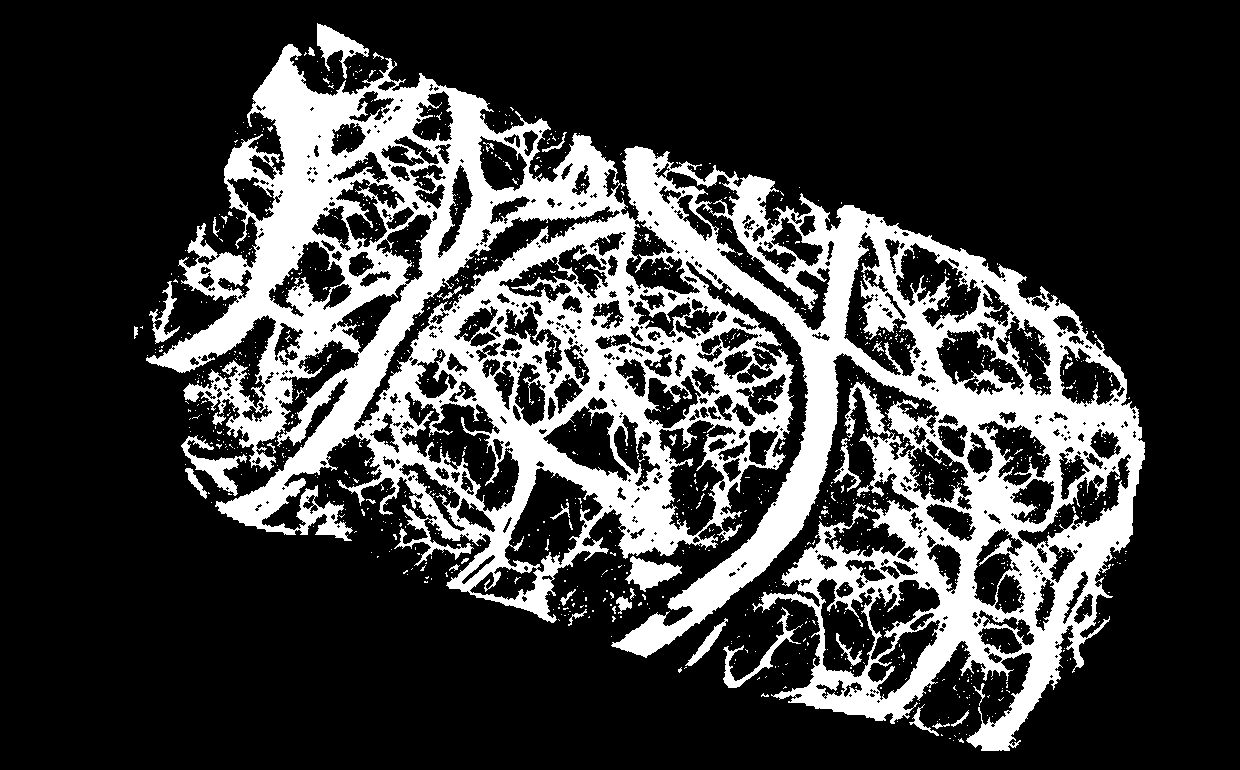
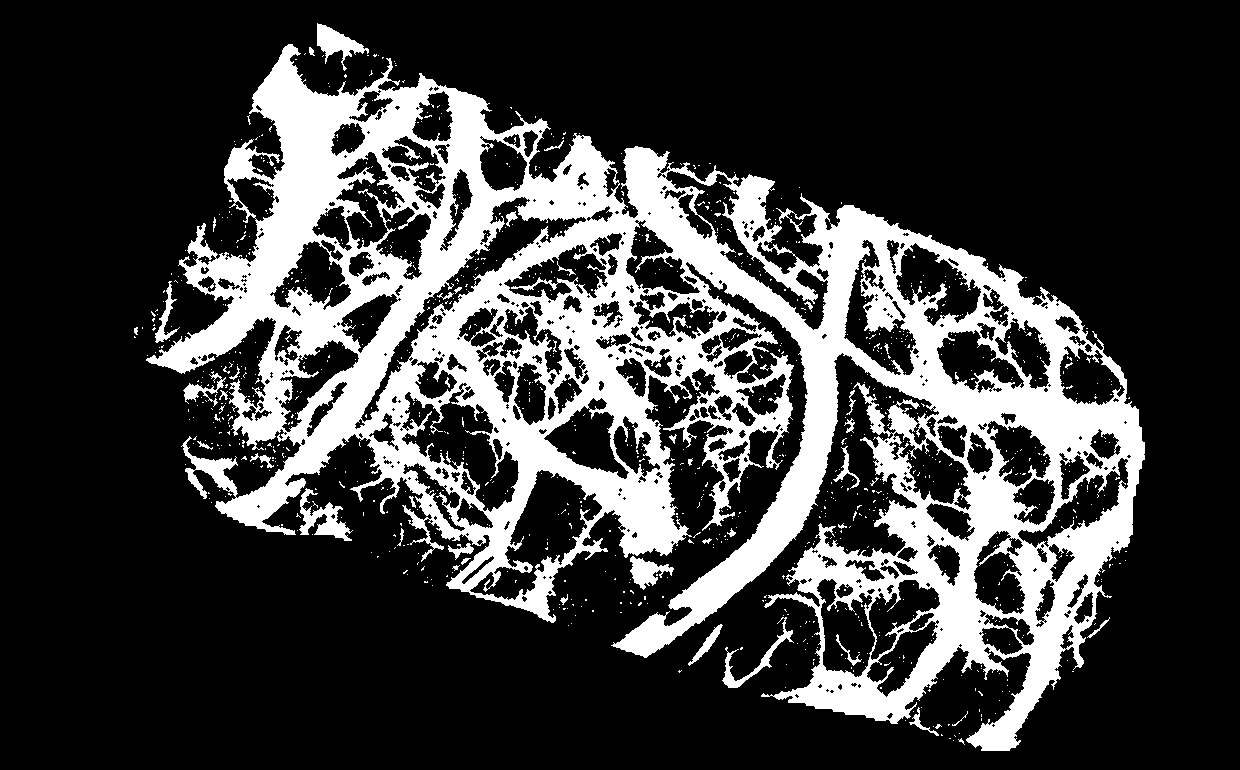
Increase number of photonts

diff --git a/Compute_Hypercubes.m b/Compute_Hypercubes.m
@@ -12,7 +12,7 @@ addpath('./functions/Optical_coefficients');
 
 
 % Path that contains results
-path = '../output_mcxlab/output_pp_WMC_1/'; 
+path = '../output_mcxlab/output_patient1/'; 
 
 % Load model info
 load(strcat(path,'cst.mat')) % Load constants
@@ -61,17 +61,3 @@ close all;
 for i = 1:length(Lambdas)
     figure(i); subplot(121), imagesc(Hypercube(:,:,i),[min_H max_H]), colorbar, title(strcat('Reconstructed diffuse reflectance ',num2str(Lambdas(i)),'nm')), subplot(122),   imagesc(Mean_path_length(:,:,i),[min_mp max_mp]), colorbar,title(strcat('Mean path length ',num2str(Lambdas(i)),'nm'))
 end
-
-
-%% Only plot diffuse reflectance
-
-clear
-
-% Path that contains results
-path = 'output_dref_WMC_0/'; 
-load(strcat(path,'cst.mat')) % Load constants
-load(strcat(path,'out_',num2str(Lambdas(1)),'nm.mat'))
-
-% close all
-figure
-imagesc(dref), colorbar

diff --git a/Compute_simulations.m b/Compute_simulations.m
@@ -16,7 +16,7 @@ addpath('./functions');
 
 if run_in_cluster == 1
     addpath('/pbs/home/c/ccaredda/private/mcxlab');
-    cfg.nphoton=3e8; % Number of photons
+    cfg.nphoton=3e9; % Number of photons
 else
     addpath('/home/caredda/Soft/mcxlab');
     cfg.nphoton=1e2; % Number of photons
